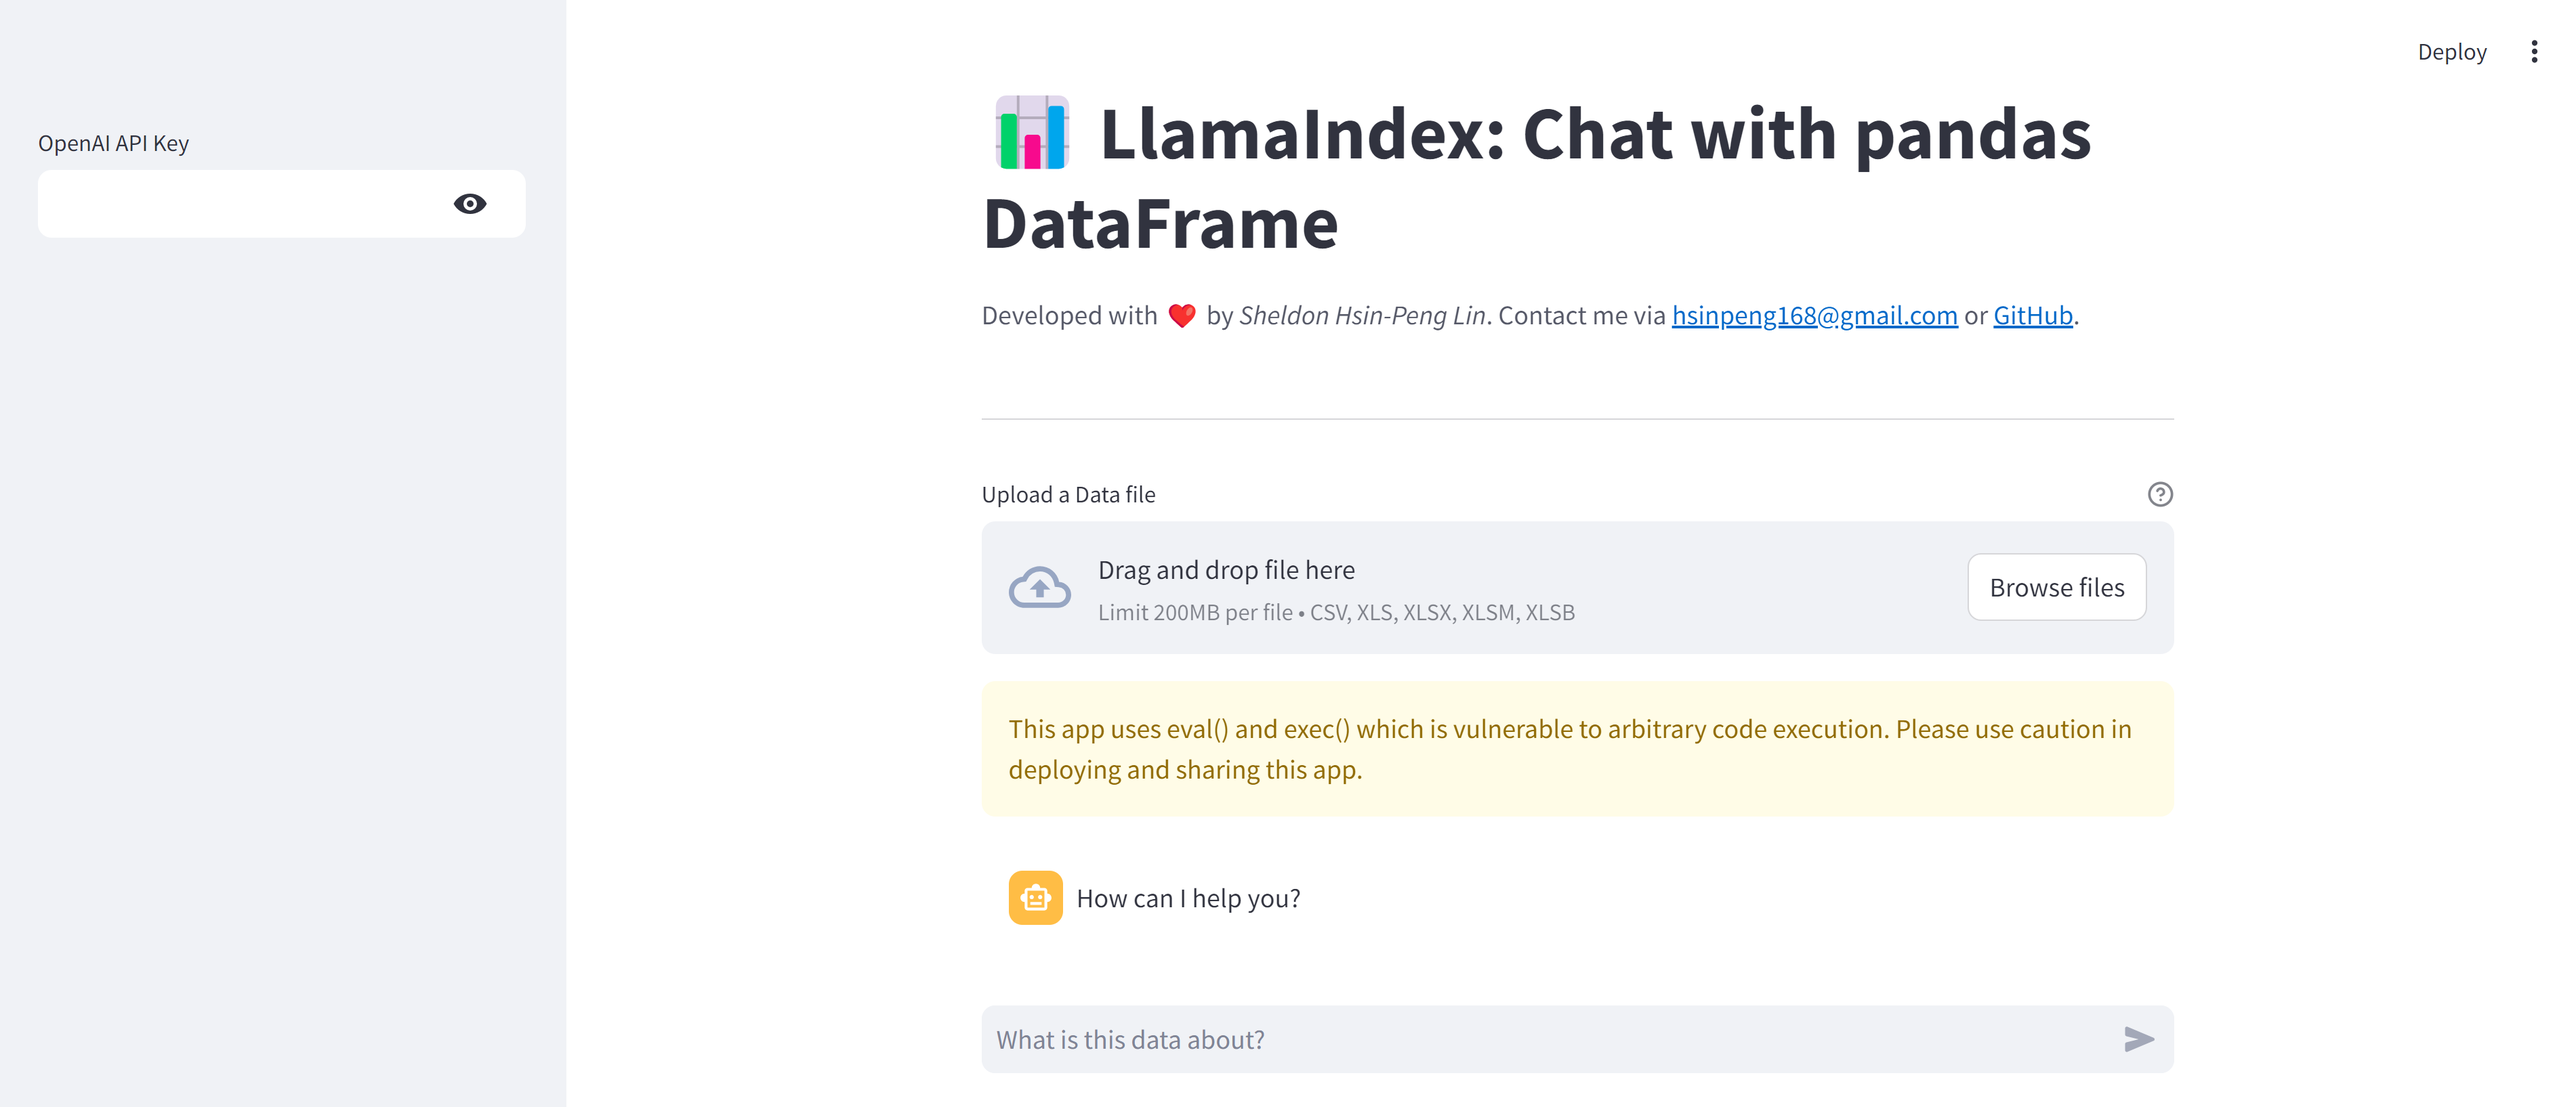
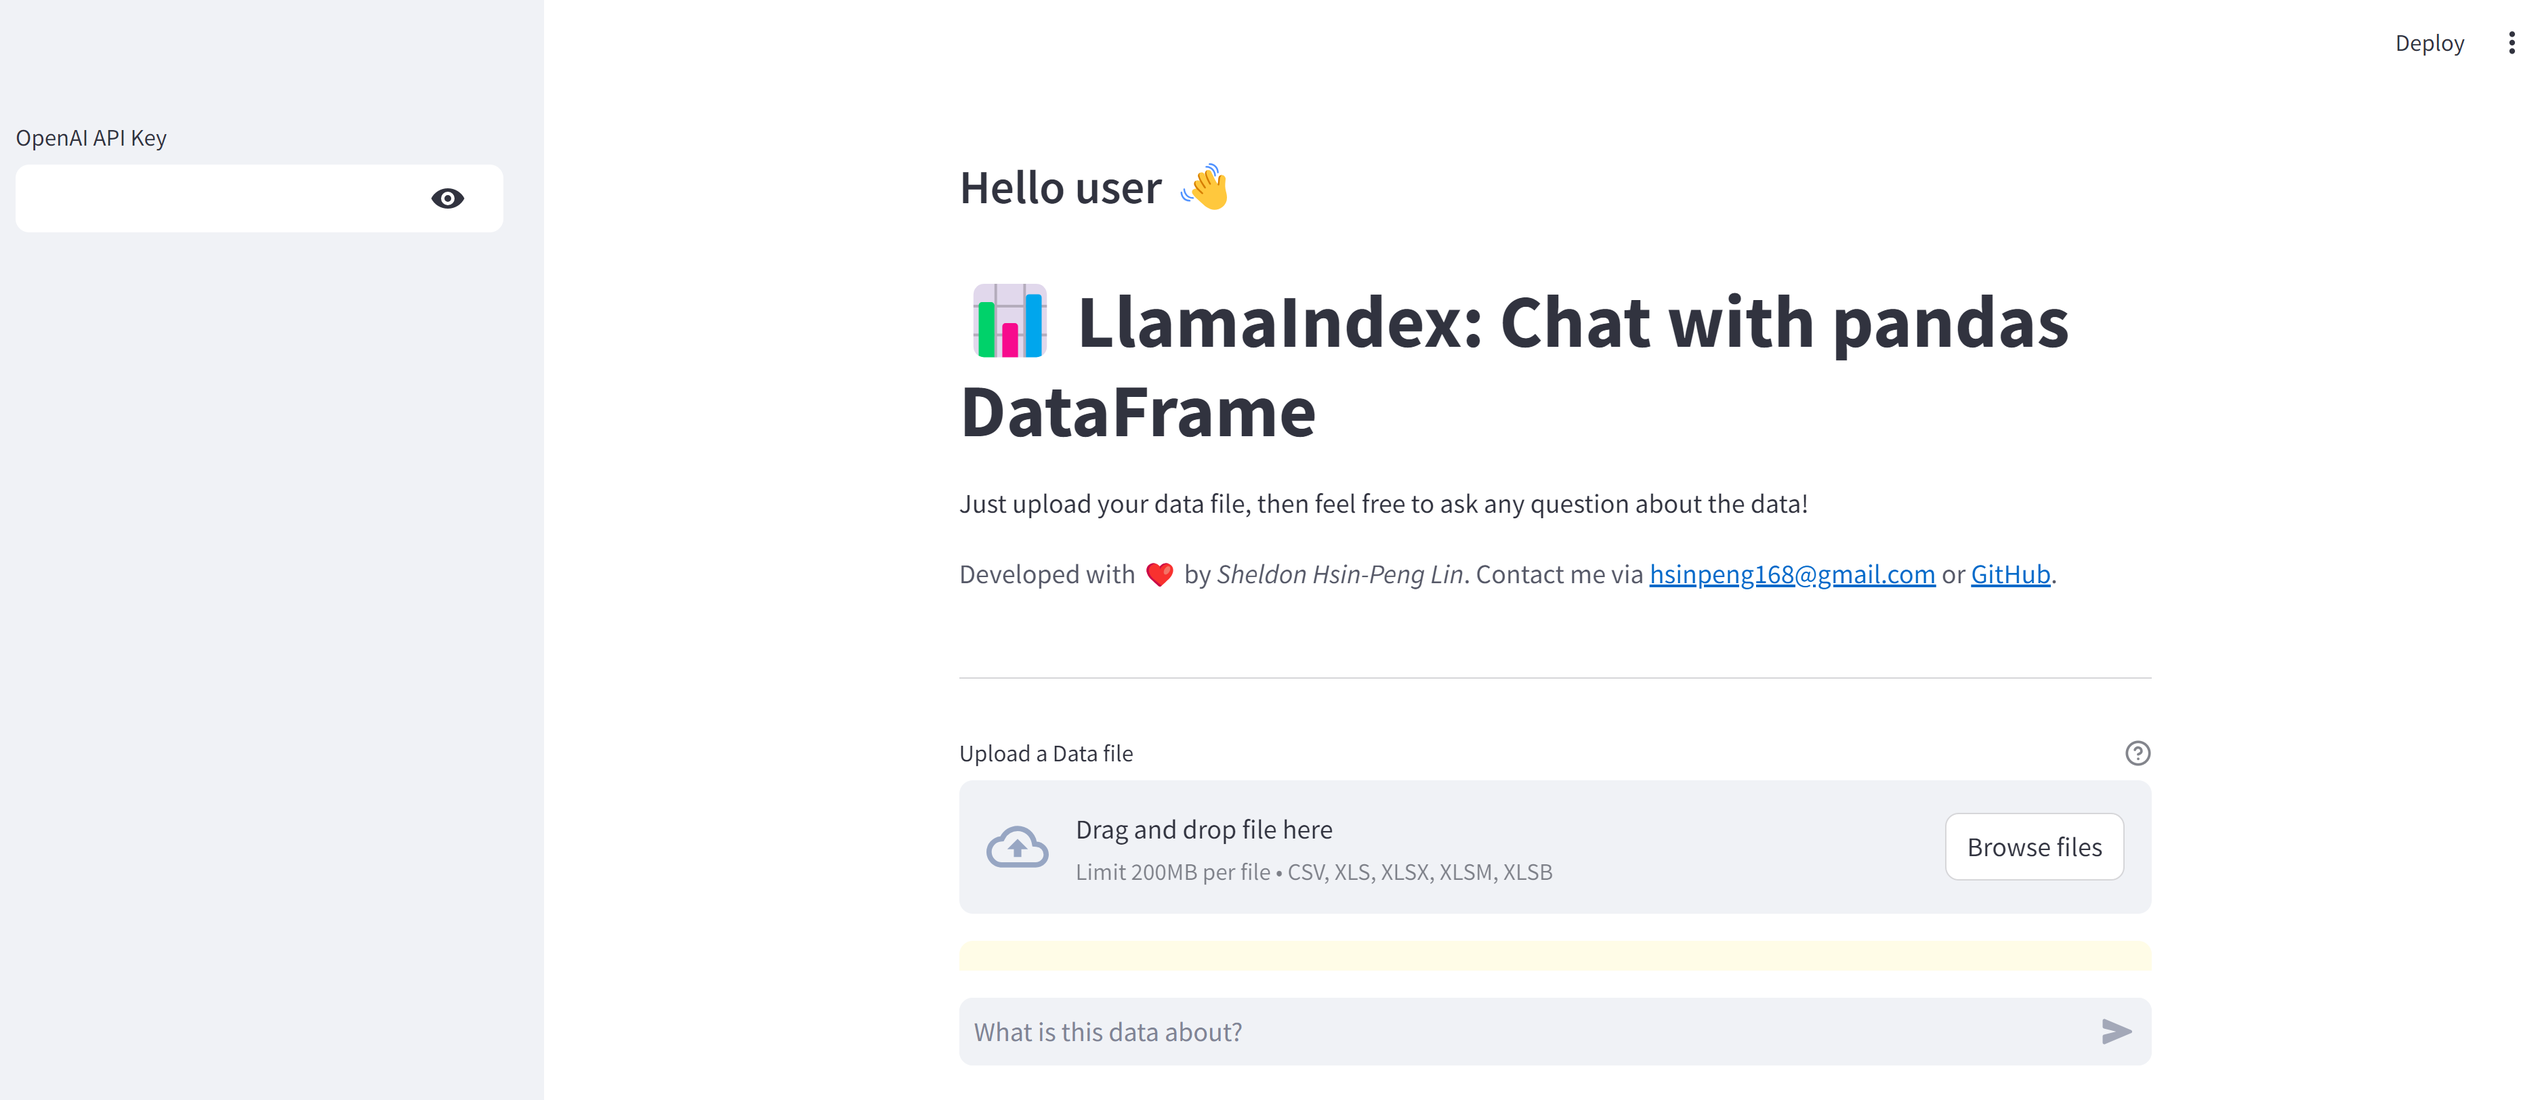
minor changes of ui

diff --git a/chat_pandas_df_llamaindex.py b/chat_pandas_df_llamaindex.py
@@ -1,7 +1,7 @@
 import streamlit as st
 import pandas as pd
 import os
-from st_dev_info import developer_info_simple_stream, developer_info_simple_static
+from st_dev_info import developer_info_simple_stream, developer_info_simple_static, stream_words
 
 from llama_index.llms.openai import OpenAI
 from llama_index.core import Settings
@@ -46,14 +46,18 @@ def load_data(uploaded_file):
         st.error(f"Unsupported file format: {ext}")
         return None
 
-
+# Introduction section
 st.set_page_config(page_title=APP_TITLE, page_icon="🦜")
+st.subheader("Hello user 👋")
 st.title(f":bar_chart: {APP_TITLE}")
 # Display author info
+welcome_message = "Just upload your data file, then feel free to ask any question about the data!"
 if "has_been_streamed" not in st.session_state:
     st.session_state["has_been_streamed"] = True
+    st.write(stream_words(welcome_message))
     developer_info_simple_stream(author=AUTHOR, email=EMAIL, github=GITHUB)
 else:
+    st.write(welcome_message)
     developer_info_simple_static(author=AUTHOR, email=EMAIL, github=GITHUB)
 st.divider()
 
